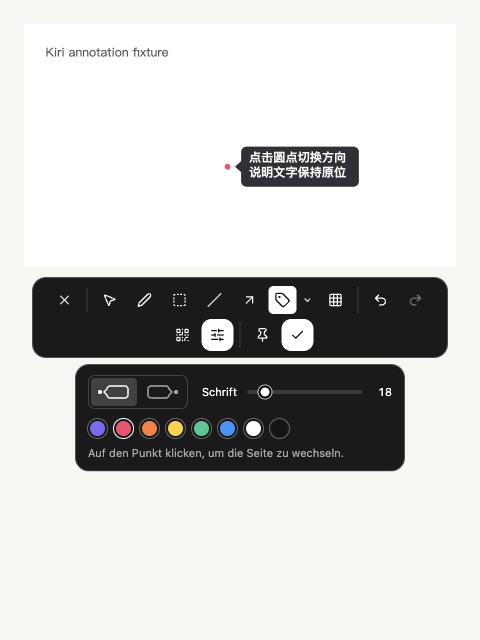
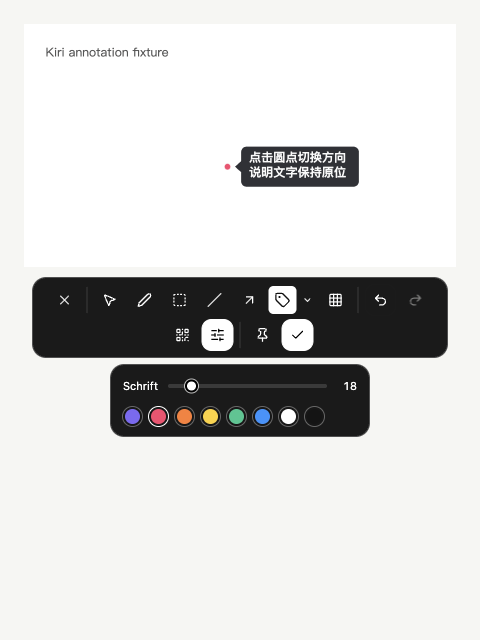
ui: simplify label appearance controls

Changed region(s): [[0.1562, 0.5625, 0.8438, 0.75]]

diff --git a/src/annotation/LabelControls.tsx b/src/annotation/LabelControls.tsx
@@ -8,35 +8,19 @@ export function LabelControls({selected, appearance, onChange, onFinish}: {
   onChange(patch:Partial<AppearanceSettings>, transient?:boolean):void; onFinish():void;
 }) {
   const size = selected?.fontSize ?? appearance.textFontSize;
-  const direction = selected?.labelDirection ?? appearance.labelDirection;
   const color = selected?.color ?? appearance.colorPreset;
   return <div className="kiri-label-controls kiri-hud">
-    <div className="kiri-label-control-row">
-      <div className="kiri-label-directions" role="group" aria-label={t("Label direction")}>
-        {(["left","right"] as const).map(value => <button key={value} type="button" className="kiri-label-direction"
-          aria-pressed={direction===value} title={t(value==="left"?"Point label left":"Point label right")}
-          aria-label={t(value==="left"?"Point label left":"Point label right")}
-          onKeyDown={event=>{if(event.key==="Enter"||event.key===" ")event.stopPropagation();}}
-          onClick={()=>onChange({labelDirection:value})}>
-          <svg width="36" height="18" viewBox="0 0 36 18" aria-hidden="true" style={{transform:value==="right"?"scaleX(-1)":undefined}}>
-            <circle cx="4" cy="9" r="2" fill="currentColor"/>
-            <path d="M14 3h15a3 3 0 0 1 3 3v6a3 3 0 0 1-3 3H14a3 3 0 0 1-3-3l-3-3 3-3a3 3 0 0 1 3-3Z" fill="none" stroke="currentColor" strokeWidth="1.4"/>
-          </svg>
-        </button>)}
-      </div>
-      <label className="kiri-label-size"><span>{t("Font")}</span>
-        <input type="range" className="kiri-range" min="12" max="64" value={size}
-          aria-label={t("Font")} onChange={event=>onChange({textFontSize:Number(event.target.value)},true)}
-          onPointerUp={onFinish} onPointerCancel={onFinish} onKeyUp={onFinish} onBlur={onFinish}/>
-        <output>{Math.round(size)}</output>
-      </label>
-    </div>
-    <div className="kiri-label-colors">
+    <label className="kiri-label-size"><span>{t("Font")}</span>
+      <input type="range" className="kiri-range" min="12" max="64" value={size}
+        aria-label={t("Font")} onChange={event=>onChange({textFontSize:Number(event.target.value)},true)}
+        onPointerUp={onFinish} onPointerCancel={onFinish} onKeyUp={onFinish} onBlur={onFinish}/>
+      <output>{Math.round(size)}</output>
+    </label>
+    <div className="kiri-label-colors" role="group" aria-label={t("Color")}>
       {COLOR_PRESETS.map(value=><button key={value} type="button" className="kiri-label-swatch"
         title={t(COLOR_LABELS[value])} aria-label={t(COLOR_LABELS[value])} aria-pressed={color===value}
         onKeyDown={event=>{if(event.key==="Enter"||event.key===" ")event.stopPropagation();}}
         onClick={()=>onChange({colorPreset:value})} style={{background:COLOR_HEX[value]}}/>)}
-      <span>{t("Click the dot to switch sides.")}</span>
     </div>
   </div>;
 }

diff --git a/src/styles/design-system.css b/src/styles/design-system.css
@@ -107,21 +107,15 @@ body,
 .kiri-label-dot:hover:not(:disabled) { background:rgba(255,255,255,.24); box-shadow:0 0 0 1px rgba(0,0,0,.35); }
 .kiri-label-dot:focus-visible { outline:2px solid #fff; box-shadow:0 0 0 3px #333; }
 .kiri-label-dot:disabled { opacity:.5; cursor:default; }
-.kiri-label-controls { width:330px; max-width:100%; box-sizing:border-box; padding:10px 12px; display:flex; flex-direction:column; gap:10px; font-size:11px; }
-.kiri-label-control-row { display:flex; flex-wrap:wrap; align-items:center; gap:14px; }
-.kiri-label-directions { display:flex; gap:2px; padding:2px; border:1px solid #444; border-radius:7px; }
-.kiri-label-direction { display:grid; place-items:center; height:28px; padding:0 5px; border:0; border-radius:4px; color:#aaa; background:transparent; cursor:pointer; }
-.kiri-label-direction[aria-pressed=true] { color:#fff; background:#414141; }
-.kiri-label-direction:hover { background:#555; color:#fff; }
-.kiri-label-direction:focus-visible, .kiri-label-swatch:focus-visible { outline:2px solid #fff; outline-offset:2px; }
-.kiri-label-size { flex:1; display:flex; align-items:center; gap:8px; min-width:150px; }
+.kiri-label-controls { width:260px; max-width:100%; box-sizing:border-box; padding:10px 12px; display:flex; flex-direction:column; gap:10px; font-size:11px; }
+.kiri-label-swatch:focus-visible { outline:2px solid #fff; outline-offset:2px; }
+.kiri-label-size { display:flex; align-items:center; gap:8px; min-width:0; }
 .kiri-label-size input { flex:1; min-width:60px; width:60px; }
 .kiri-label-size output { min-width:20px; text-align:right; font-variant-numeric:tabular-nums; }
 .kiri-label-colors { display:flex; flex-wrap:wrap; align-items:center; gap:7px; }
 .kiri-label-swatch { width:19px; height:19px; padding:0; border:2px solid #171717; outline:1px solid #666; border-radius:50%; cursor:pointer; }
 .kiri-label-swatch[aria-pressed=true] { outline-color:#fff; }
 .kiri-label-swatch:hover { opacity:.7; }
-.kiri-label-colors span { flex-basis:100%; color:#aaa; line-height:1.4; }
 .kiri-label-text-editor:focus { outline:none; box-shadow:none; }
 
 .kiri-primary-button {

diff --git a/docs/qa/directional-labels/README.md b/docs/qa/directional-labels/README.md
@@ -17,9 +17,11 @@ browser retesting also verified Space activation after this integration.
   undo and redo restore its direction. The dot does not start a canvas gesture.
 - The real PNG export retains the neutral body, white text, tip and colored dot
   without selection handles. [Clean export](label-export.png).
-- Fresh checks against the real Toolbar and Canvas after Pin integration keep
-  all seven languages' Pin button, wrapped toolbar, direction controls, font
-  slider, color swatches and hint inside a 480×640 browser viewport at 2x.
+- Fresh checks against the real Toolbar and Canvas after simplifying the label
+  inspector keep all seven languages' Pin button, wrapped toolbar, font slider
+  and color swatches inside a 480×640 browser viewport at 2x. The 260-pixel
+  inspector has nine controls (font and eight colors), with no duplicate
+  direction buttons or explanatory footer.
   Every language also passes actual dot clicks during editing with focus/text/
   geometry preserved, committed switching and toolbar undo/redo. Measurements
   are in [label-layout-results.json](label-layout-results.json). Screenshots:
@@ -41,11 +43,14 @@ browser retesting also verified Space activation after this integration.
 ## Local checks and limits
 
 The branch incorporates main `f640c48` (numbered callouts), including Pin at
-`1c7357c`, hover colors and Windows confirmation dispatch. The fresh browser
-checks use renderer source tree `da7311168e3846c3b85f412ac592ebbda8316ce2` and
+`1c7357c`, hover colors and Windows confirmation dispatch. The first Pin browser
+checks used renderer source tree `da7311168e3846c3b85f412ac592ebbda8316ce2` and
 harness blob `9e0fb3889806750ca2c0dd7450e41030b6920624`, from numbered base
 `feef86c` plus the label feature. Main's squash tree was verified identical to
-that base, so adopting main preserves the exact tested sources. All seven language
+that base, so adopting main preserved the exact tested sources. The latest
+inspector screenshots and measurements use renderer tree
+`68de77629214afbab3d24973f72fd77540f2a464`, including the description input repair
+and the requested removal of direction buttons and helper text. All seven language
 key sets and the paired READMEs retain the three features; ADR 0084 remains
 intact. Label geometry, rendering and styles match the previously validated
 implementation.
@@ -80,13 +85,16 @@ problem. Its minimal native-editor repair from `f045e3f` (PR #127) is now includ
 here. The combined `src` and `src-tauri` trees were verified identical to the
 coordinator's `7ef78b9` candidate; the new renderer tree is
 `629b46592bb8df62cbcd9d90e4f4b84610e4951a`. Label TextEditor, geometry and
-rendering are unchanged. The coordinating slot owns native input acceptance
-before merging; isolated composition checks do not replace that acceptance.
+rendering are unchanged. The user subsequently confirmed normal input after
+physically typing Chinese candidates and English in the coordinator's signed
+repair candidate. This is coordinated native acceptance; isolated composition
+checks cannot replace OS input-method acceptance by themselves. Subsequent
+inspector simplification does not change the textarea or composition handling.
 
 `pnpm build`, `pnpm test:release-tools` (373 tests) and the separate frontend
 TypeScript check including the isolated QA harness passed after the description
-repair. `cargo check` and `git diff --check` passed for the integration; the
-description repair leaves native sources unchanged. The complete macOS 27.0.1 Rust run had 334 passing tests,
+repair and inspector simplification. `cargo check` and `git diff --check` passed
+for the integration; both changes leave native sources unchanged. The complete macOS 27.0.1 Rust run had 334 passing tests,
 one ignored test and one failure in the pre-existing
 `native_annotations_follow_live_frames_and_independent_time_ranges` test at its
 post-annotation blue-channel pixel-difference assertion. The same assertion

diff --git a/docs/adr/0084-directional-label-bubbles.md b/docs/adr/0084-directional-label-bubbles.md
@@ -21,8 +21,10 @@ without moving its text or adding another permanent toolbar slot.
   undoable edit; flips during typing remain in that text edit.
 - The dot is a real button with a readable action name, hover/focus feedback and
   Enter/Space activation. Pointer events do not start a move or finish capture.
-- Provide font, dot-color and direction controls. The existing eight handles
-  resize a label; body dragging moves it, and double-clicking edits its text.
+- Provide font and dot-color controls in the inspector; the dot itself changes
+  direction, without duplicate direction buttons or explanatory text. The
+  existing eight handles resize a label; body dragging moves it, and
+  double-clicking edits its text.
 - Persist labels as text marks with an optional `labelDirection: left | right`.
   Omitted fields retain ordinary text behavior. Both native and frontend parsers
   reject invalid values and preserve the existing bounds and revision protection.
